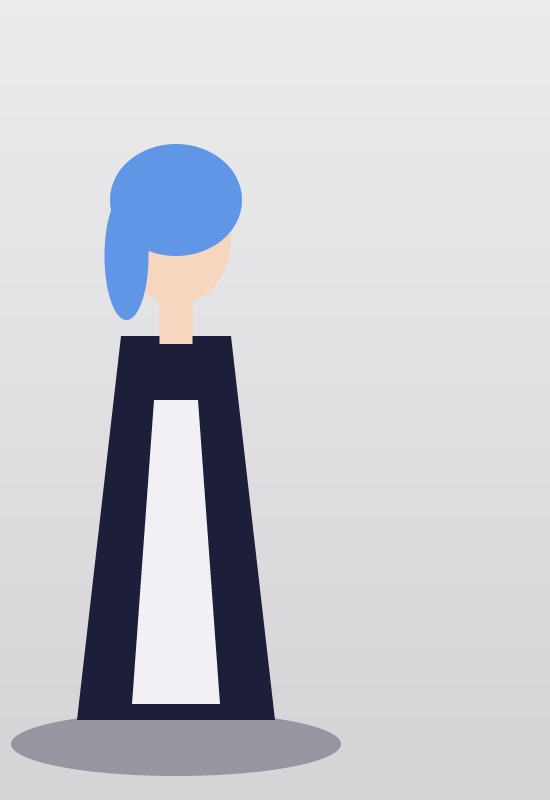
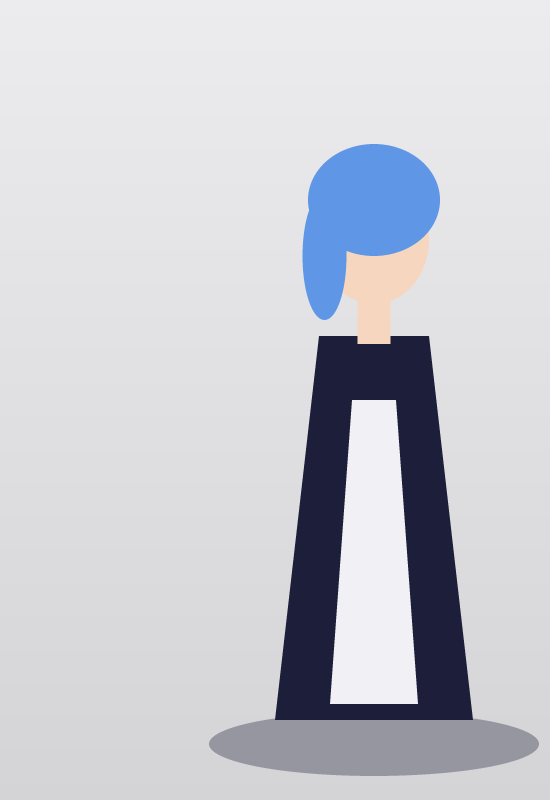
Lean the off-centre Rem right, into her neighbour, as Spike leans into the side panel

diff --git a/src/dev-fixtures/__tests__/fixtures.test.ts b/src/dev-fixtures/__tests__/fixtures.test.ts
@@ -367,9 +367,9 @@ function opaqueBounds(png: ReturnType<typeof pngPixels>, channels = 4) {
 
 describe('fixture off-centre art (?fxasym=1): figures standing off-centre in their pictures, as real cut-outs can', () => {
   const SYNTHETIC_DIR = path.resolve(import.meta.dirname, '../synthetic');
-  /** Rem leans left in her picture, Spike right: the figure's centre this far off the picture's, in picture widths. */
+  /** Both lean right in their pictures: the figure's centre this far right of the picture's, in picture widths. */
   const LEANS = [
-    { name: 'rem', off: -0.18 },
+    { name: 'rem', off: 0.18 },
     { name: 'spike', off: 0.3 },
   ] as const;
 

diff --git a/src/dev-fixtures/fixtures.ts b/src/dev-fixtures/fixtures.ts
@@ -338,8 +338,8 @@ const FIXTURE_ASYM_PARAM = 'fxasym';
 /**
  * Dev-only switch for art whose figure stands off-centre in its picture, as
  * a real cut-out can (a staff held out, a base off to one side):
- * `?fxasym=1` draws Rem 18 % of her picture's width left of its centre and
- * Spike 30 % right (synthetic/asym), in every branch. Off for anything else.
+ * `?fxasym=1` draws Rem 18 % of her picture's width right of its centre
+ * and Spike 30 % (synthetic/asym), in every branch. Off for anything else.
  */
 export function getFixtureAsym(): boolean {
   return new URLSearchParams(location.search).get(FIXTURE_ASYM_PARAM) === '1';
